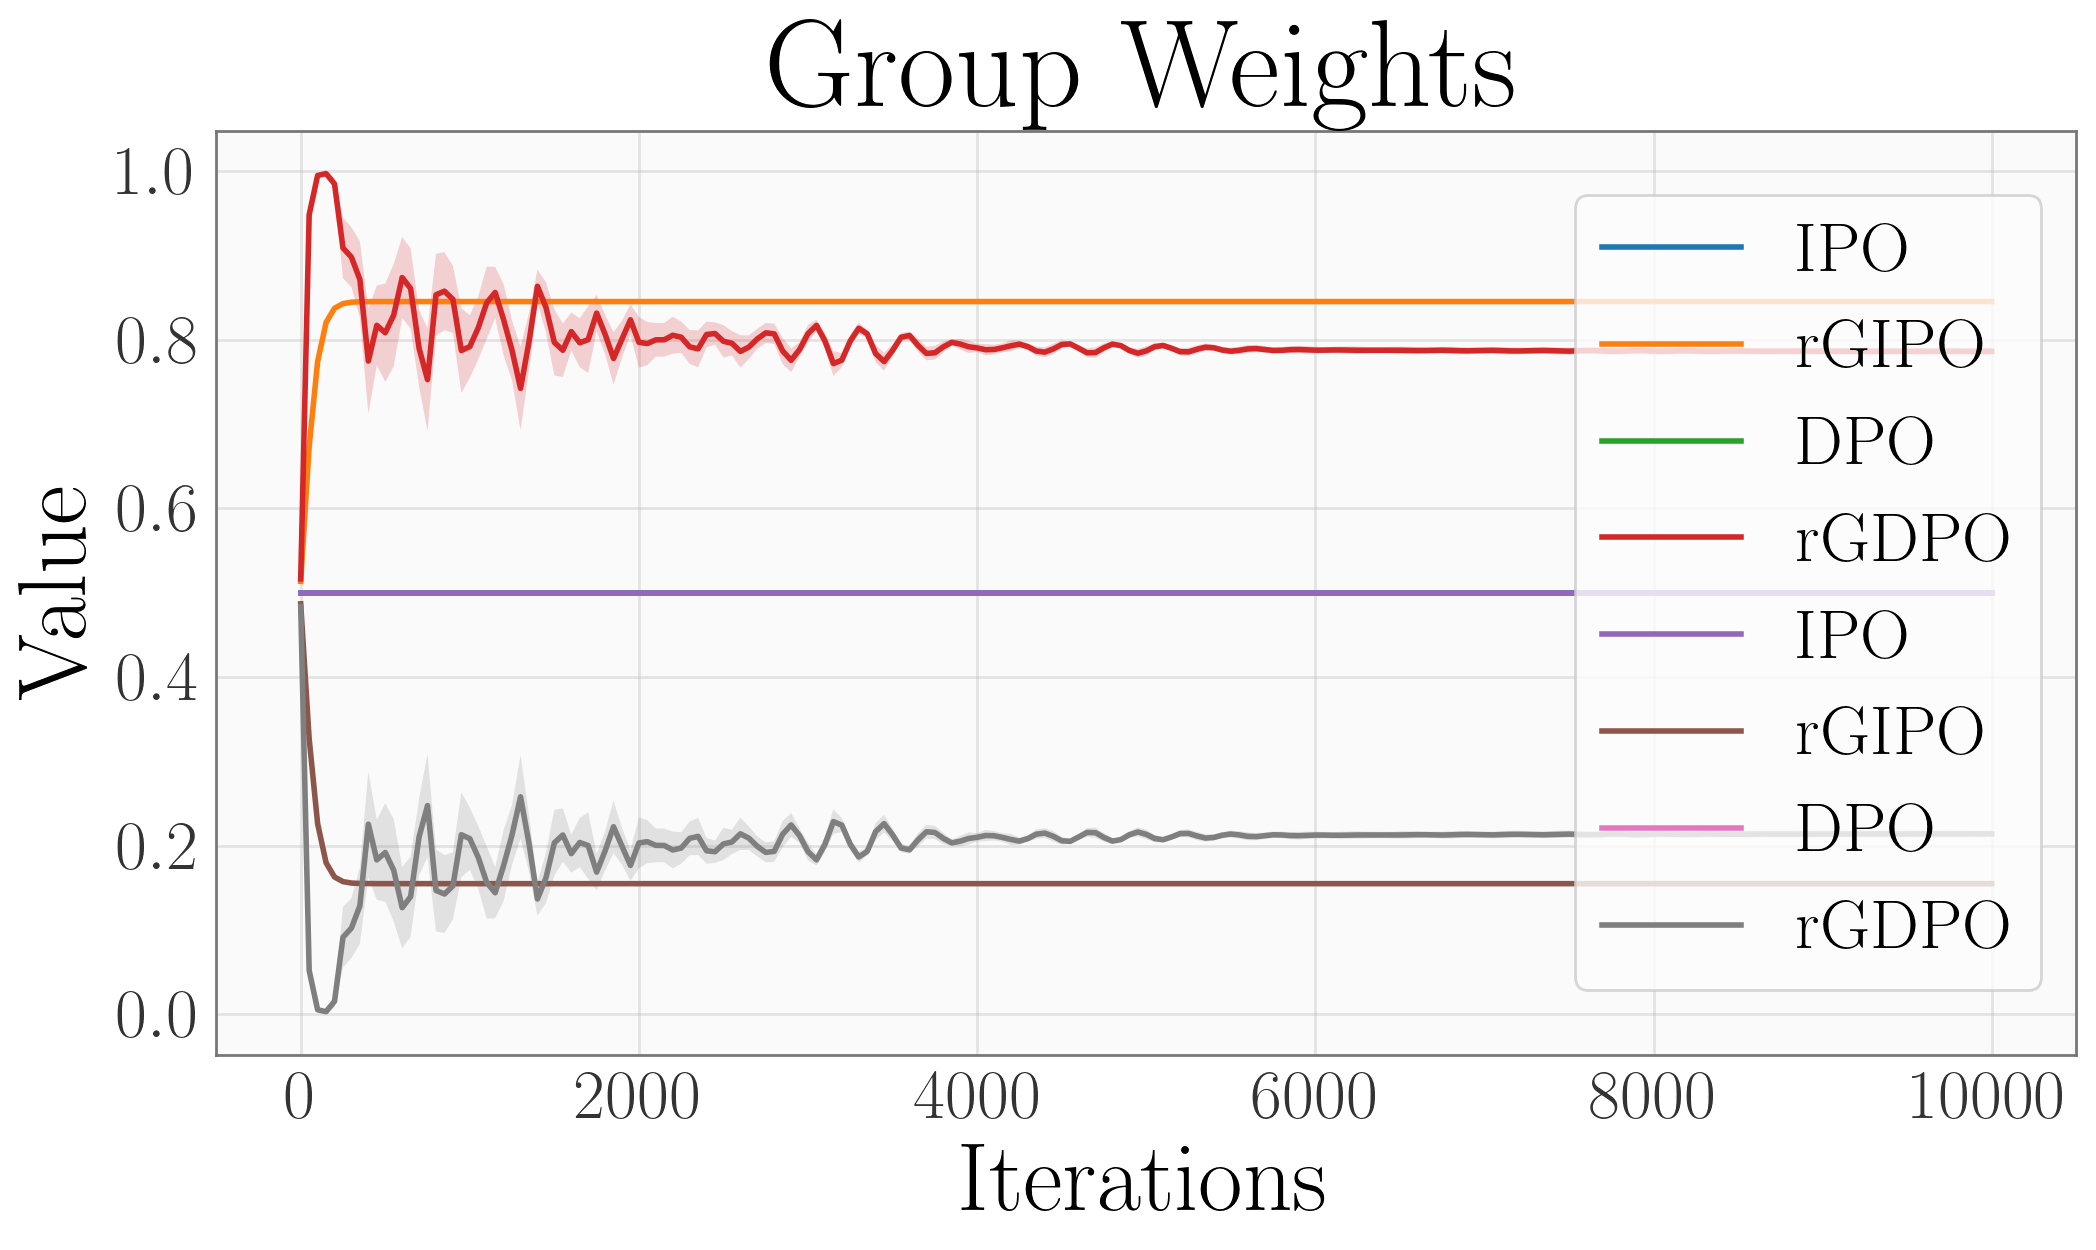
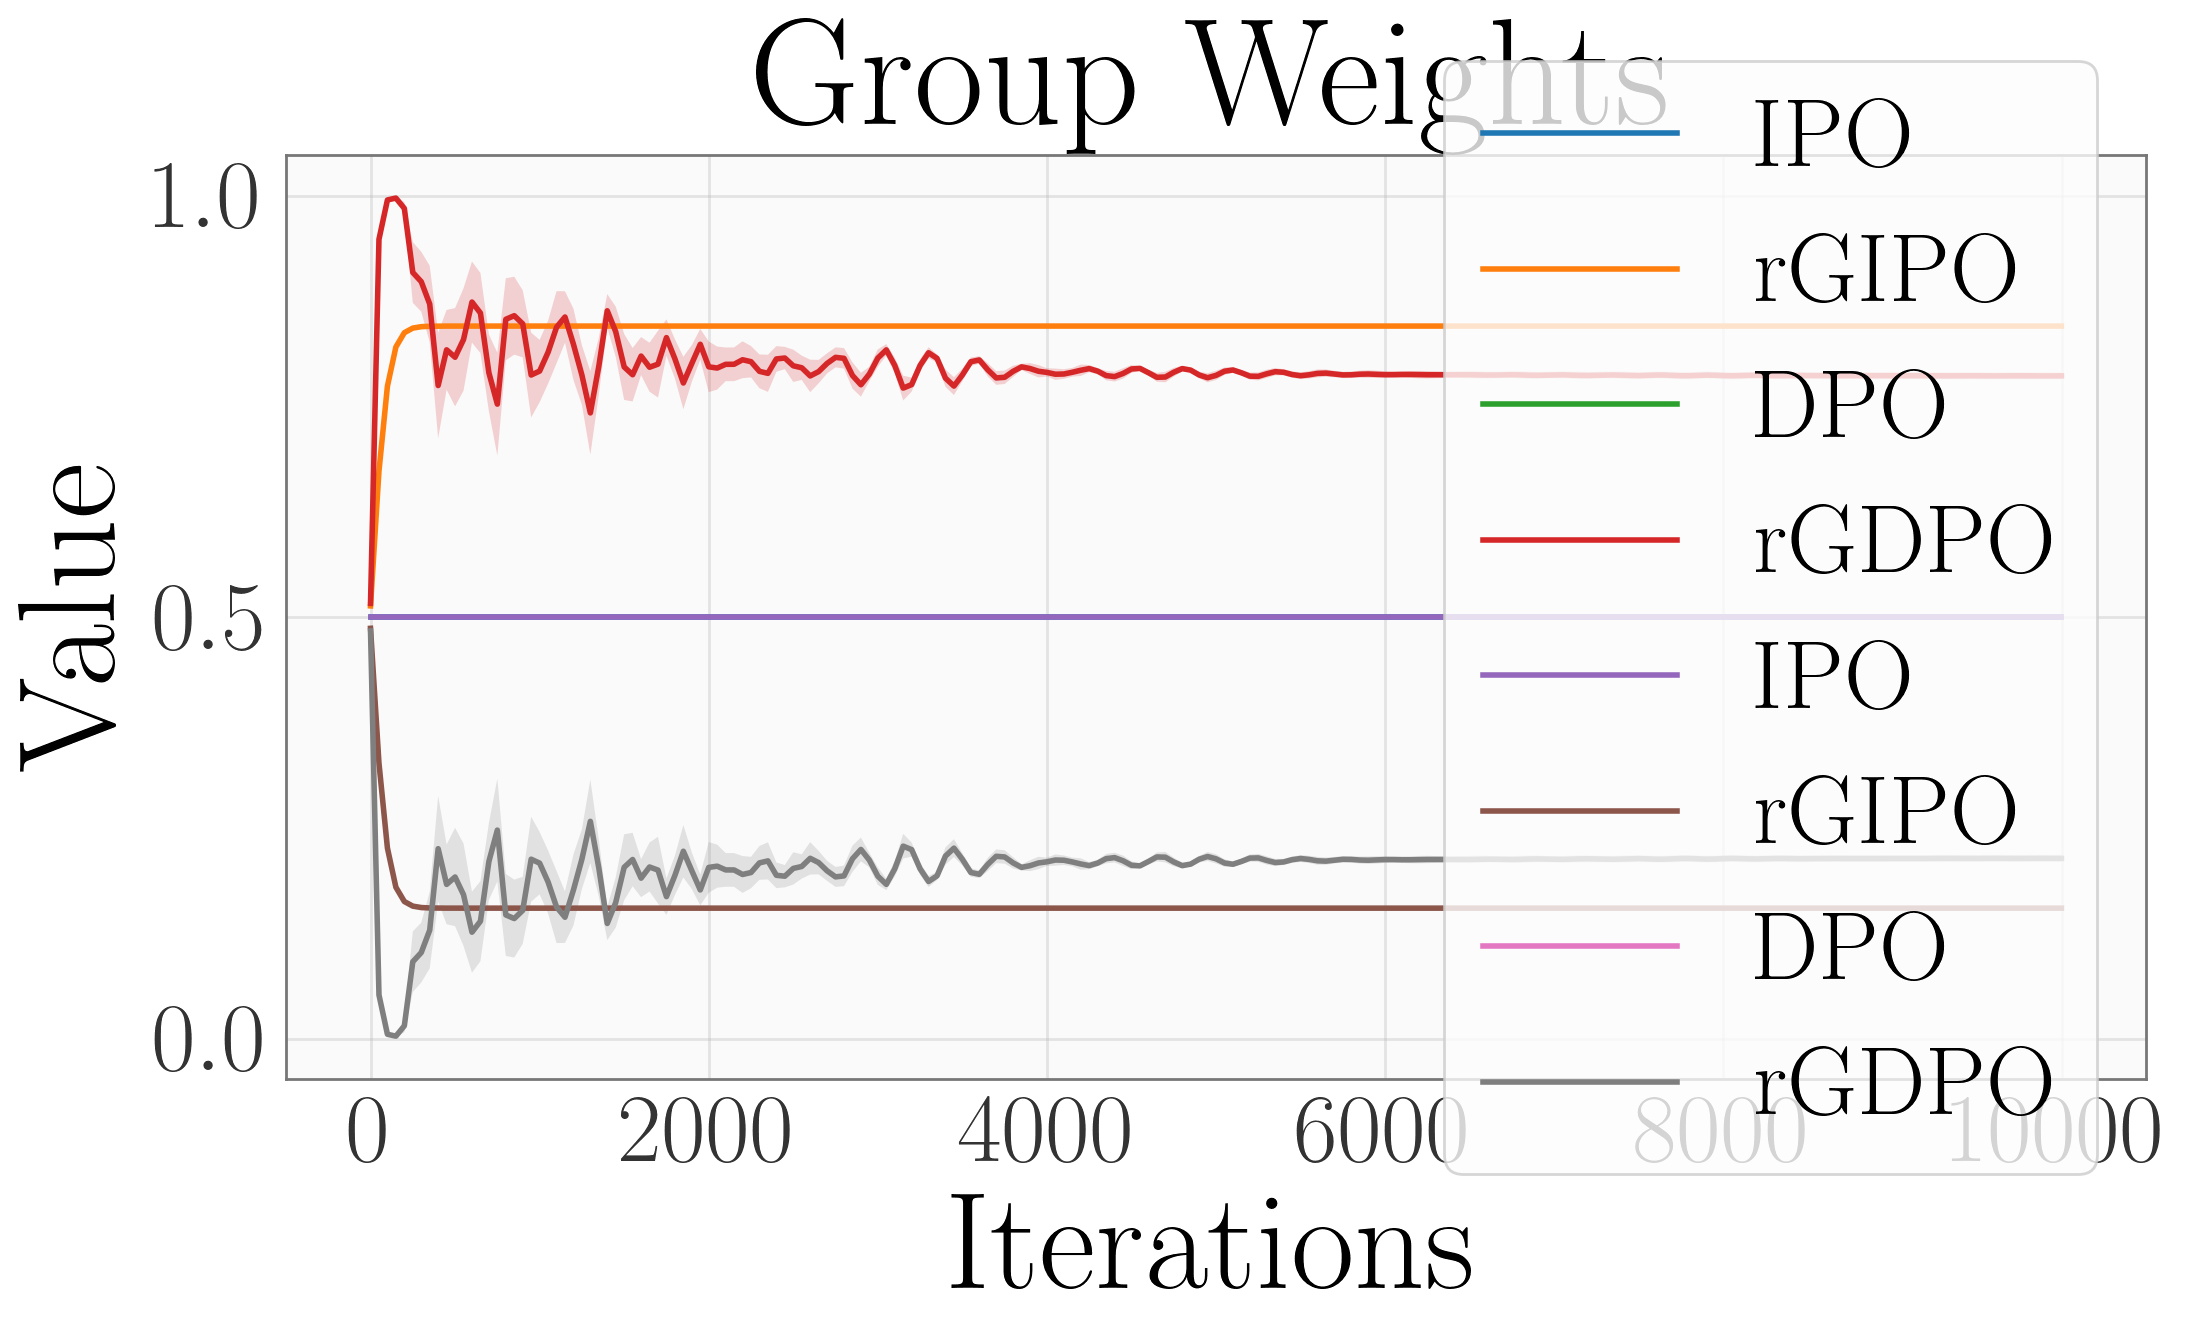
fontsize

Changed region(s): [[0.0, 0.0, 0.9924, 0.9672], [0.062, 0.6552, 0.093, 0.6864], [0.062, 0.2496, 0.093, 0.2808]]

diff --git a/wandb_data_collect_script_final_simplified.py b/wandb_data_collect_script_final_simplified.py
@@ -198,7 +198,7 @@ def plot_metric_bars(metric_config, filters_dicts, group_names, subfolder_path, 
     plt.tick_params(axis='both', which='minor', labelsize=35)
 
     plt.title(metric_config['title'],fontsize=55)
-    plt.ylabel('Value',fontsize=50)
+    plt.ylabel('Value',fontsize=45)
     if legend_show is True:
         plt.legend(fontsize=35)
     neatplot.save_figure(f'{subfolder_path}/{metric_config["file_suffix"]}', ext_list='png')
